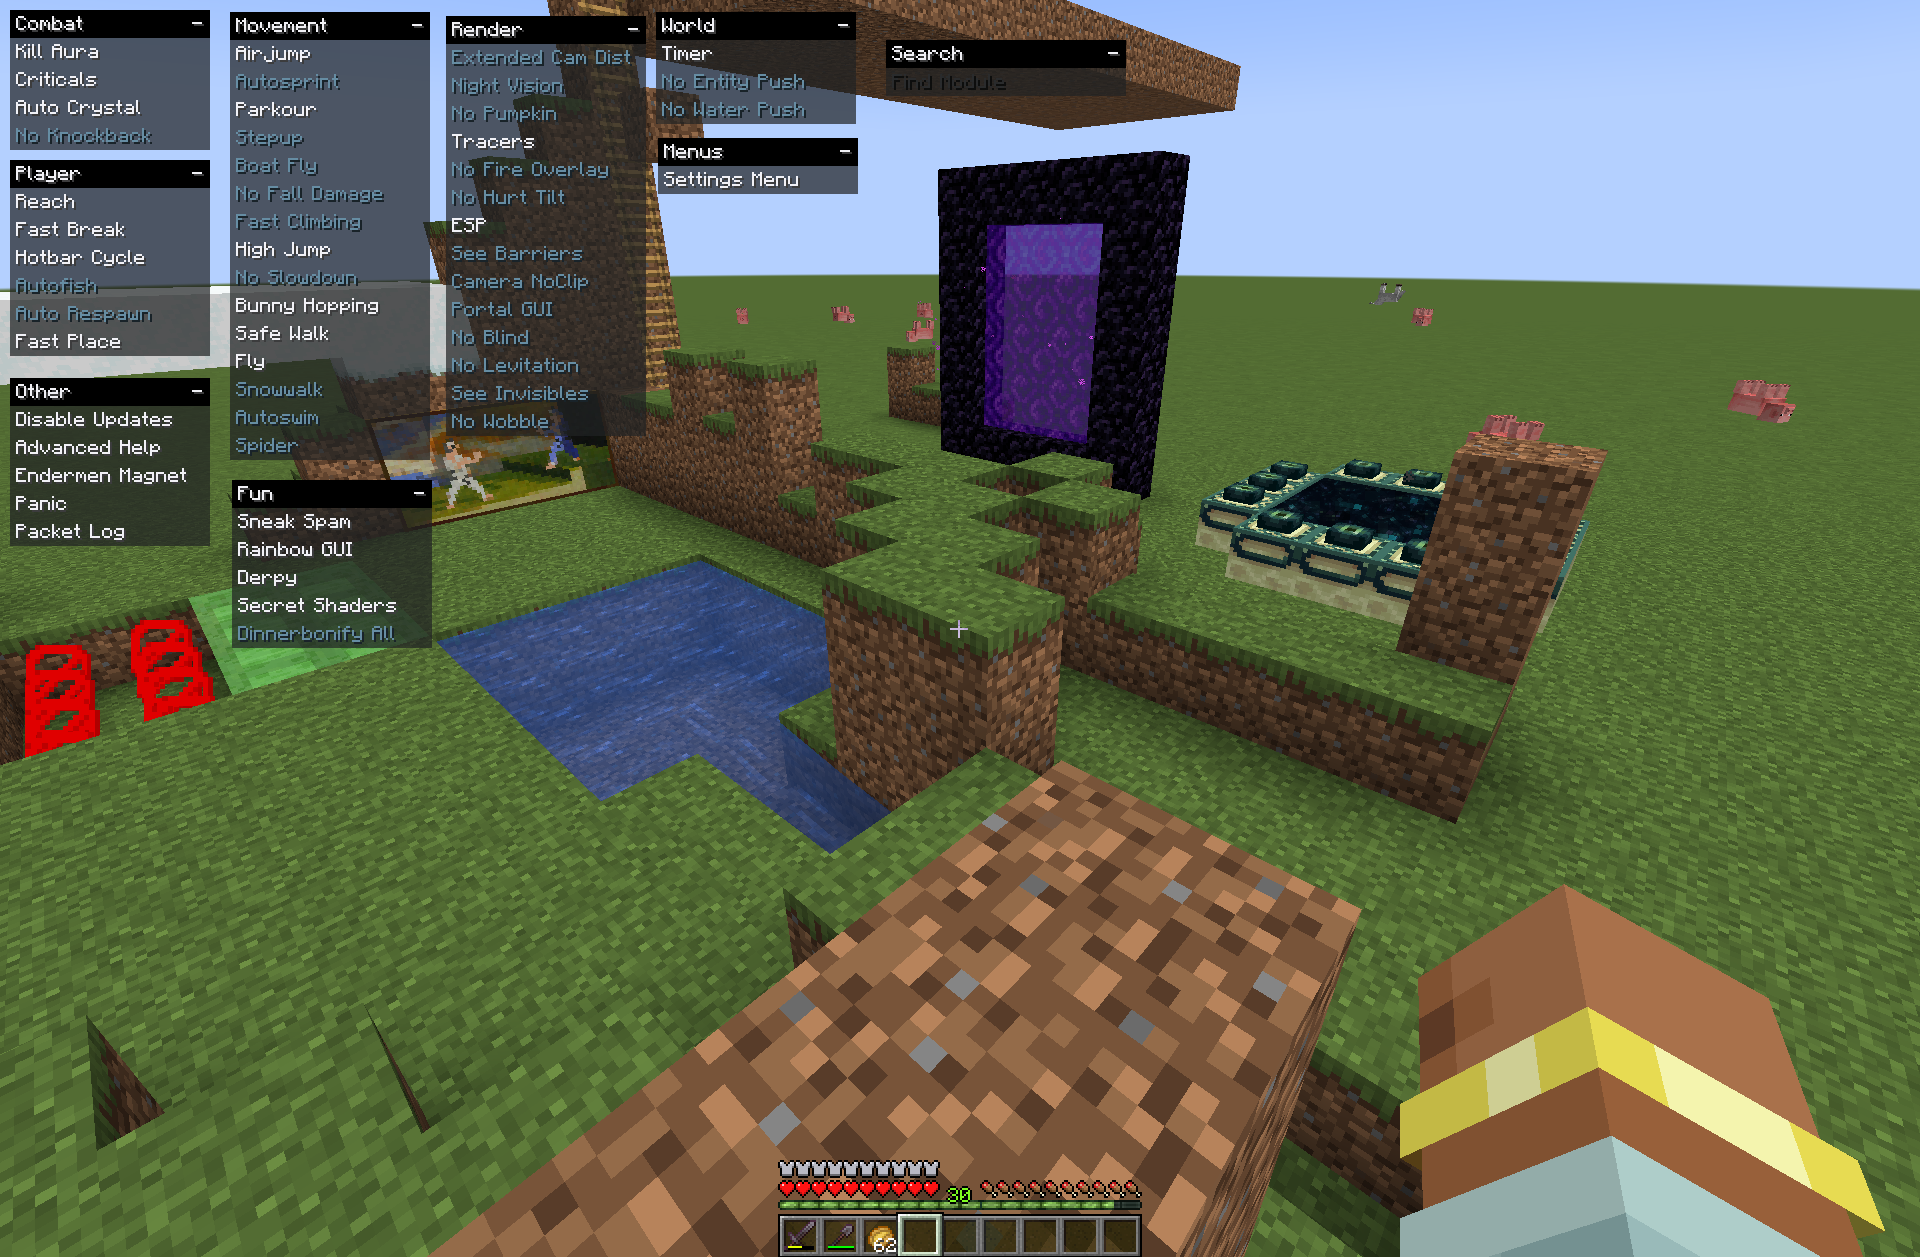
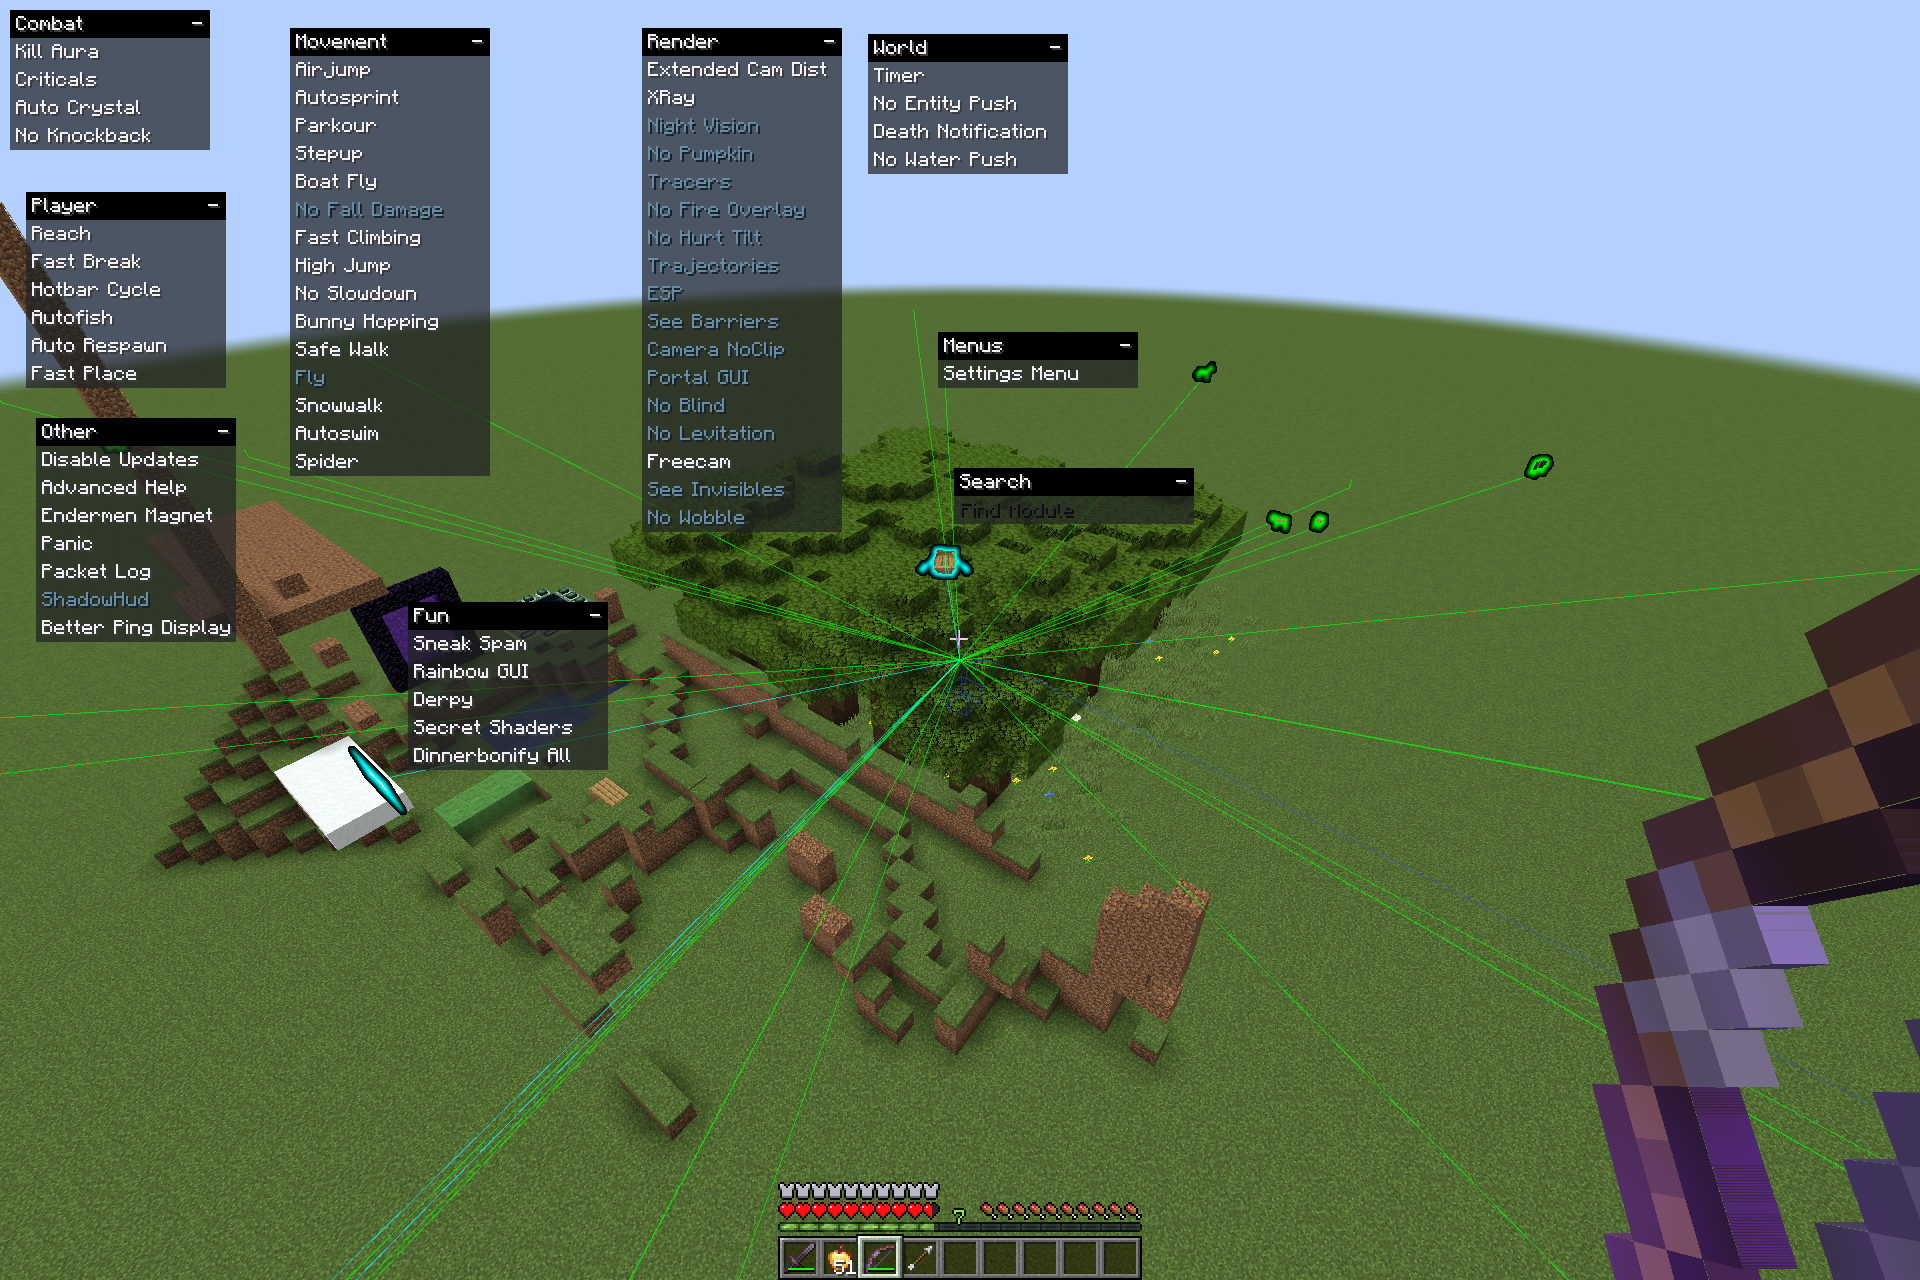
update shadowclient page to 0.2.0

diff --git a/pages/minecraft/shadowclient.html b/pages/minecraft/shadowclient.html
@@ -5,26 +5,55 @@
     <meta charset="utf-8">
     <link rel="stylesheet" type="text/css" href="../../styles.css">
     <link rel="shortcut icon" type="image/png" href="../../assets/favicon.png">
-    <title>ShadowClient 0.1.4</title>
+    <title>ShadowClient 0.2.0</title>
     <link rel="stylesheet" type="text/css" href="../../code/css/pages/minecraft/shadowclient.css">
 </head>
 
 <body>
     <div class="container">
-        <h1>ShadowClient 0.1.4</h1>
-        <h2 style="color: crimson;">There will be a more detailed documentation some time in the future. This is just
-            the download page with a bit of information, that will later be moved.</h2>
+        <h1>ShadowClient 0.2.0</h1>
         <img src="../../assets/thumbnail_shadowclient.html.png" style="width:100%">
         <h2>Download:</h2>
-        <a href="https://github.com/davidsaltacc/shadowclient/releases/download/0.1.4/shadowclient-0.1.4.jar">Download
-            ShadowClient 0.1.4</a><br>
-        <a href="https://github.com/davidsaltacc/shadowclient/releases/download/0.1.4/shadowclient-0.1.4-sources.jar">Download
-            ShadowClient 0.1.4 Sources</a><br>
+        <a href="https://github.com/davidsaltacc/shadowclient/raw/main/jars/shadowclient-0.2.0.jar">Download
+            ShadowClient 0.2.0</a><br>
+        <a href="https://github.com/davidsaltacc/shadowclient/raw/main/jars/shadowclient-0.2.0-sources.jar">Download
+            ShadowClient 0.2.0 Sources</a><br>
         <p style="padding-top: 10px;">Download the first file and put it into your (fabric) mods folder.</p>
         <p>The sources are available in the second download.</p>
         <h2>Other Versions:</h2>
         <a href="https://github.com/davidsaltacc/shadowclient/releases">Download other versions</a><br>
         <a href="https://github.com/davidsaltacc/shadowclient/tree/development/jars">Download development builds</a>
+        <h1>A small documentation for the client will be available some time in the future.</h1>
+        <h2>Shadowclient 0.2.0 release notes</h2>
+        <p style="white-space: pre-line">new features:  
+- descriptions for modules  
+- added configurable keybindings (in the mc keybinding menu)  
+- added small chat message for toggling modules   
+- added sodium/optifine detection  
+- notifications system  
+- timer speeds can now go below 1  
+
+new modules:  
+- death notification  
+- xray
+- trajectories
+- freecam
+- blink (hidden because broken)
+- ms ping display
+- shadow hud (minimalistic hud)
+
+fixes:
+- fixed window title not being overwritten properly
+- refactored some of my terrible code
+- updated the welcome message to look better
+- removed fabric api being necessary
+- moved jars to another folder
+- fixed not being jump with bhopping
+- fixed lots of potential crashes
+- fixed enum settings not being saved properly
+- fixed slider setting precision always being 3 digits
+        </p>
+        <div style="display: none;">
         <h1>HELP (will be moved soon)</h1>
         <details open>
             <summary>Modules</summary>
@@ -462,6 +491,7 @@
                 </details>
             </details>
         </details>
+    </div>
     </div>
 </body>
 
